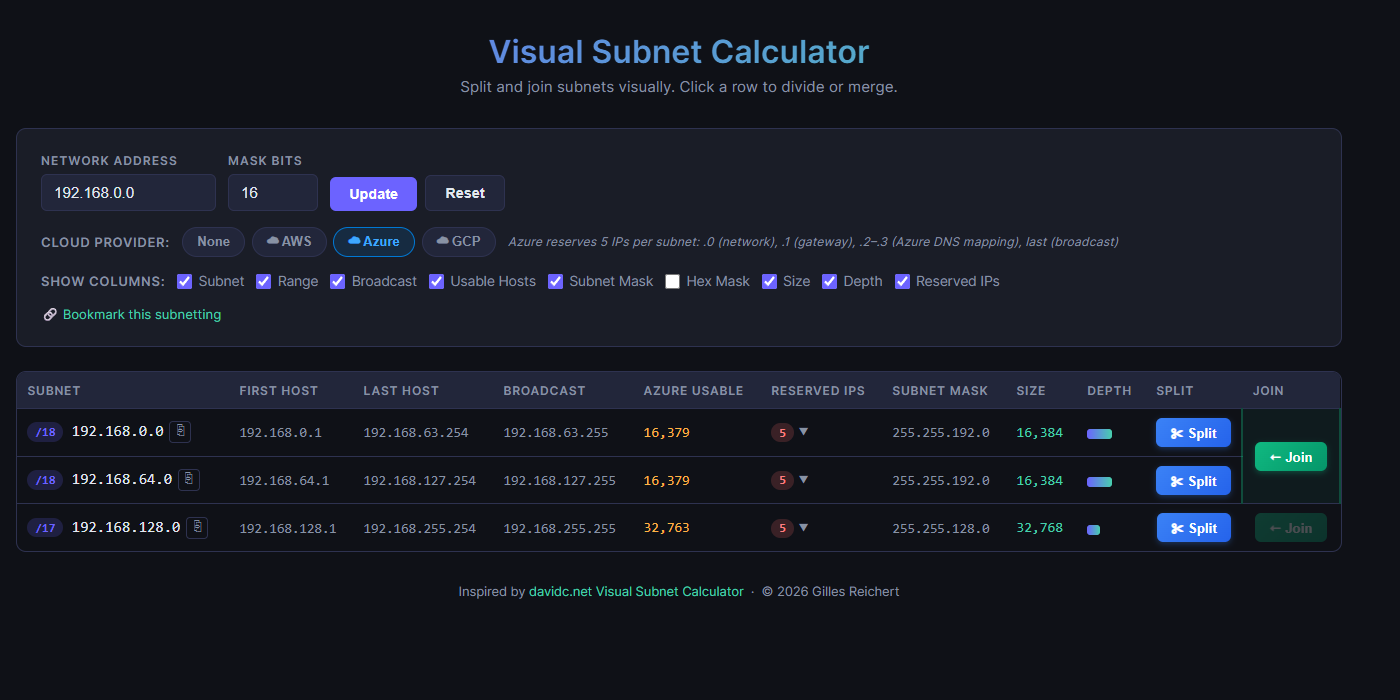
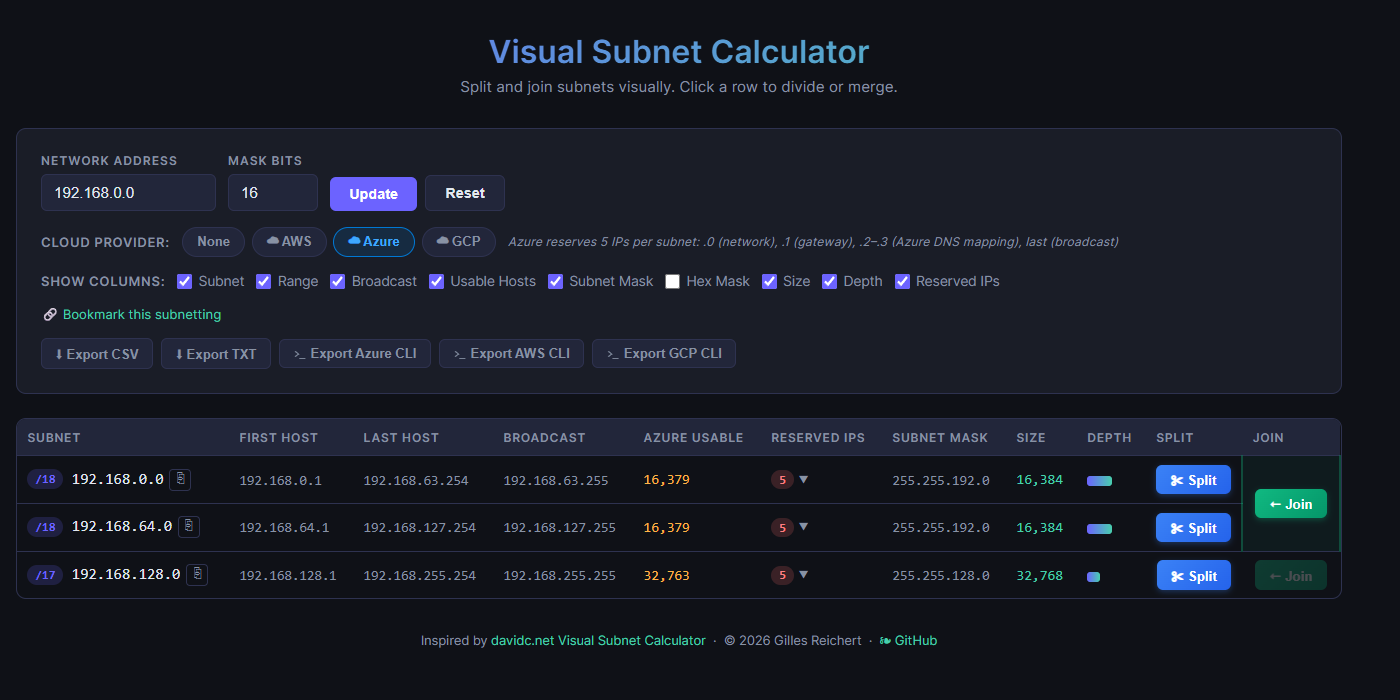
Add GitHub link to footer for easy access

diff --git a/index.html b/index.html
@@ -552,7 +552,7 @@
 </div>
 
 <footer>
-  <p>Inspired by <a href="https://www.davidc.net/sites/default/subnets/subnets.html" target="_blank">davidc.net Visual Subnet Calculator</a> &nbsp;·&nbsp; &copy; 2026 Gilles Reichert</p>
+  <p>Inspired by <a href="https://www.davidc.net/sites/default/subnets/subnets.html" target="_blank">davidc.net Visual Subnet Calculator</a> &nbsp;·&nbsp; &copy; 2026 Gilles Reichert &nbsp;·&nbsp; <a href="https://github.com/snarkbe/CIDRsplitter" target="_blank">&#x2767; GitHub</a></p>
 </footer>
 
 <script>
